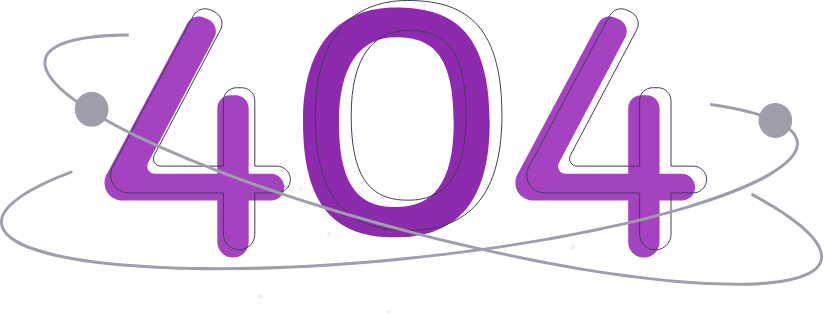
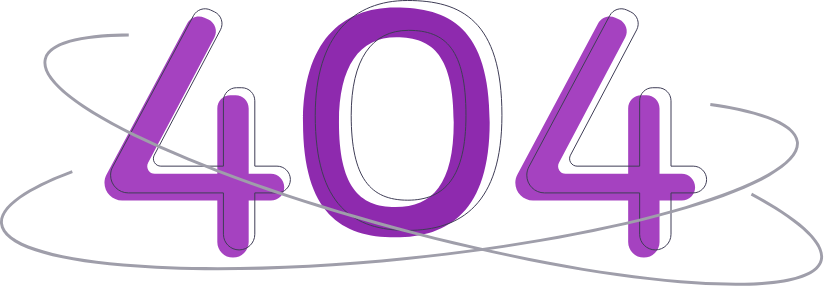
orbit one

diff --git a/src/screens/Page404.jsx b/src/screens/Page404.jsx
@@ -5,8 +5,11 @@ const Page404 = () => {
   return (
     <div className=' w-[1280px] mx-[auto]'>
         <div className='w-full h-[400px] flex flex-col items-center justify-center'>
-            <img src="../src/assets/images/404.png" alt="" className='scale-[60%]'/>
-            <Link className="w-[20%] h-[45px] rounded-[15px] bg-[#A644C1] flex justify-center items-center text-[#fff] cursor-pointer">بازگشت به صفحه اصلی</Link>
+          <div className='relative w-[450px] h-[400px] flex justify-center items-center'>
+            <img src="../src/assets/images/404.png" alt="" />
+            <img src="../src/assets/images/sircle.png" alt="" className='scale-[70%] absolute right-[45px] top-[140px]' id='sircle1' />
+          </div>
+            <Link className="w-[20%] h-[45px] rounded-[15px] bg-[#A644C1] flex justify-center items-center text-[#fff] cursor-pointer hover:bg-[#8e2aae] transition-all duration-300">بازگشت به صفحه اصلی</Link>
         </div>
         <Footer />
     </div>

diff --git a/src/index.css b/src/index.css
@@ -23,3 +23,37 @@ body {
     overflow-x: hidden;
     background-color: #f5f5f5;
 }
+@keyframes orbit1 {
+    0%{right:45px;top: 140px;}
+    2%{right:25px;top: 145px;}
+    4%{right:10px;top: 145px;}
+    6%{right:1px;top: 152px;}
+    8%{}
+    10%{}
+    12%{}
+    14%{}
+    16%{}
+    18%{}
+    20%{}
+    22%{}
+    24%{}
+    26%{}
+    28%{}
+    30%{}
+    32%{}
+    34%{}
+    36%{}
+    38%{}
+    40%{}
+    42%{}
+    44%{}
+    46%{}
+    48%{}
+    50%{}
+    52%{}
+    54%{}
+    56%{}
+}
+#sircle1 {
+    animation: orbit1 1s infinite alternate linear;
+}
